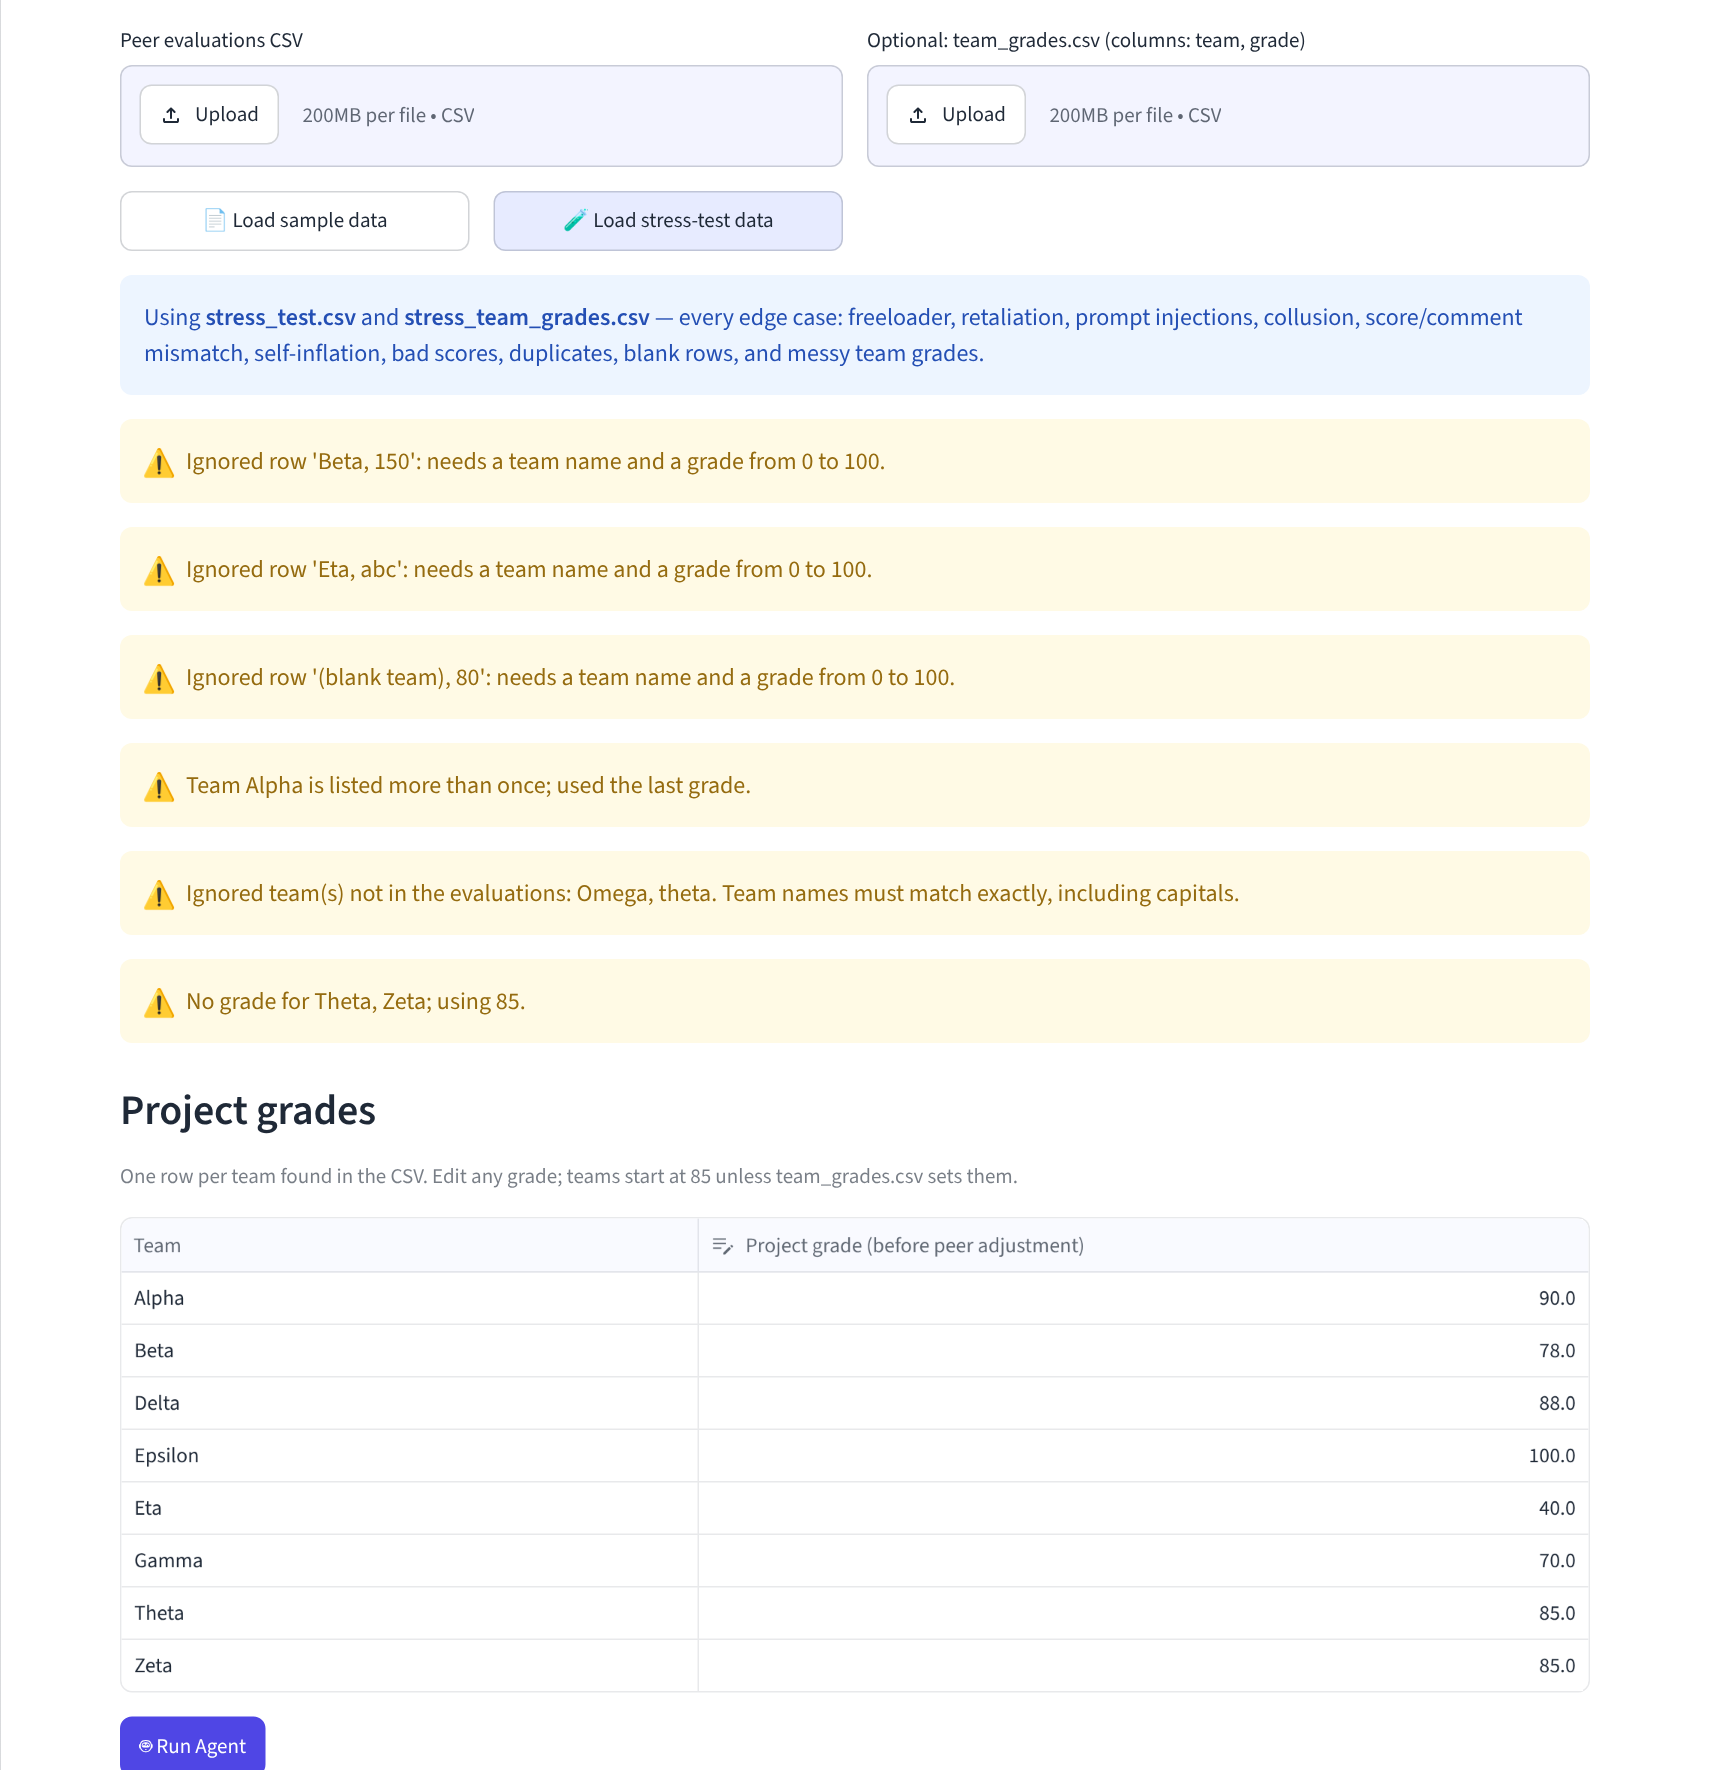
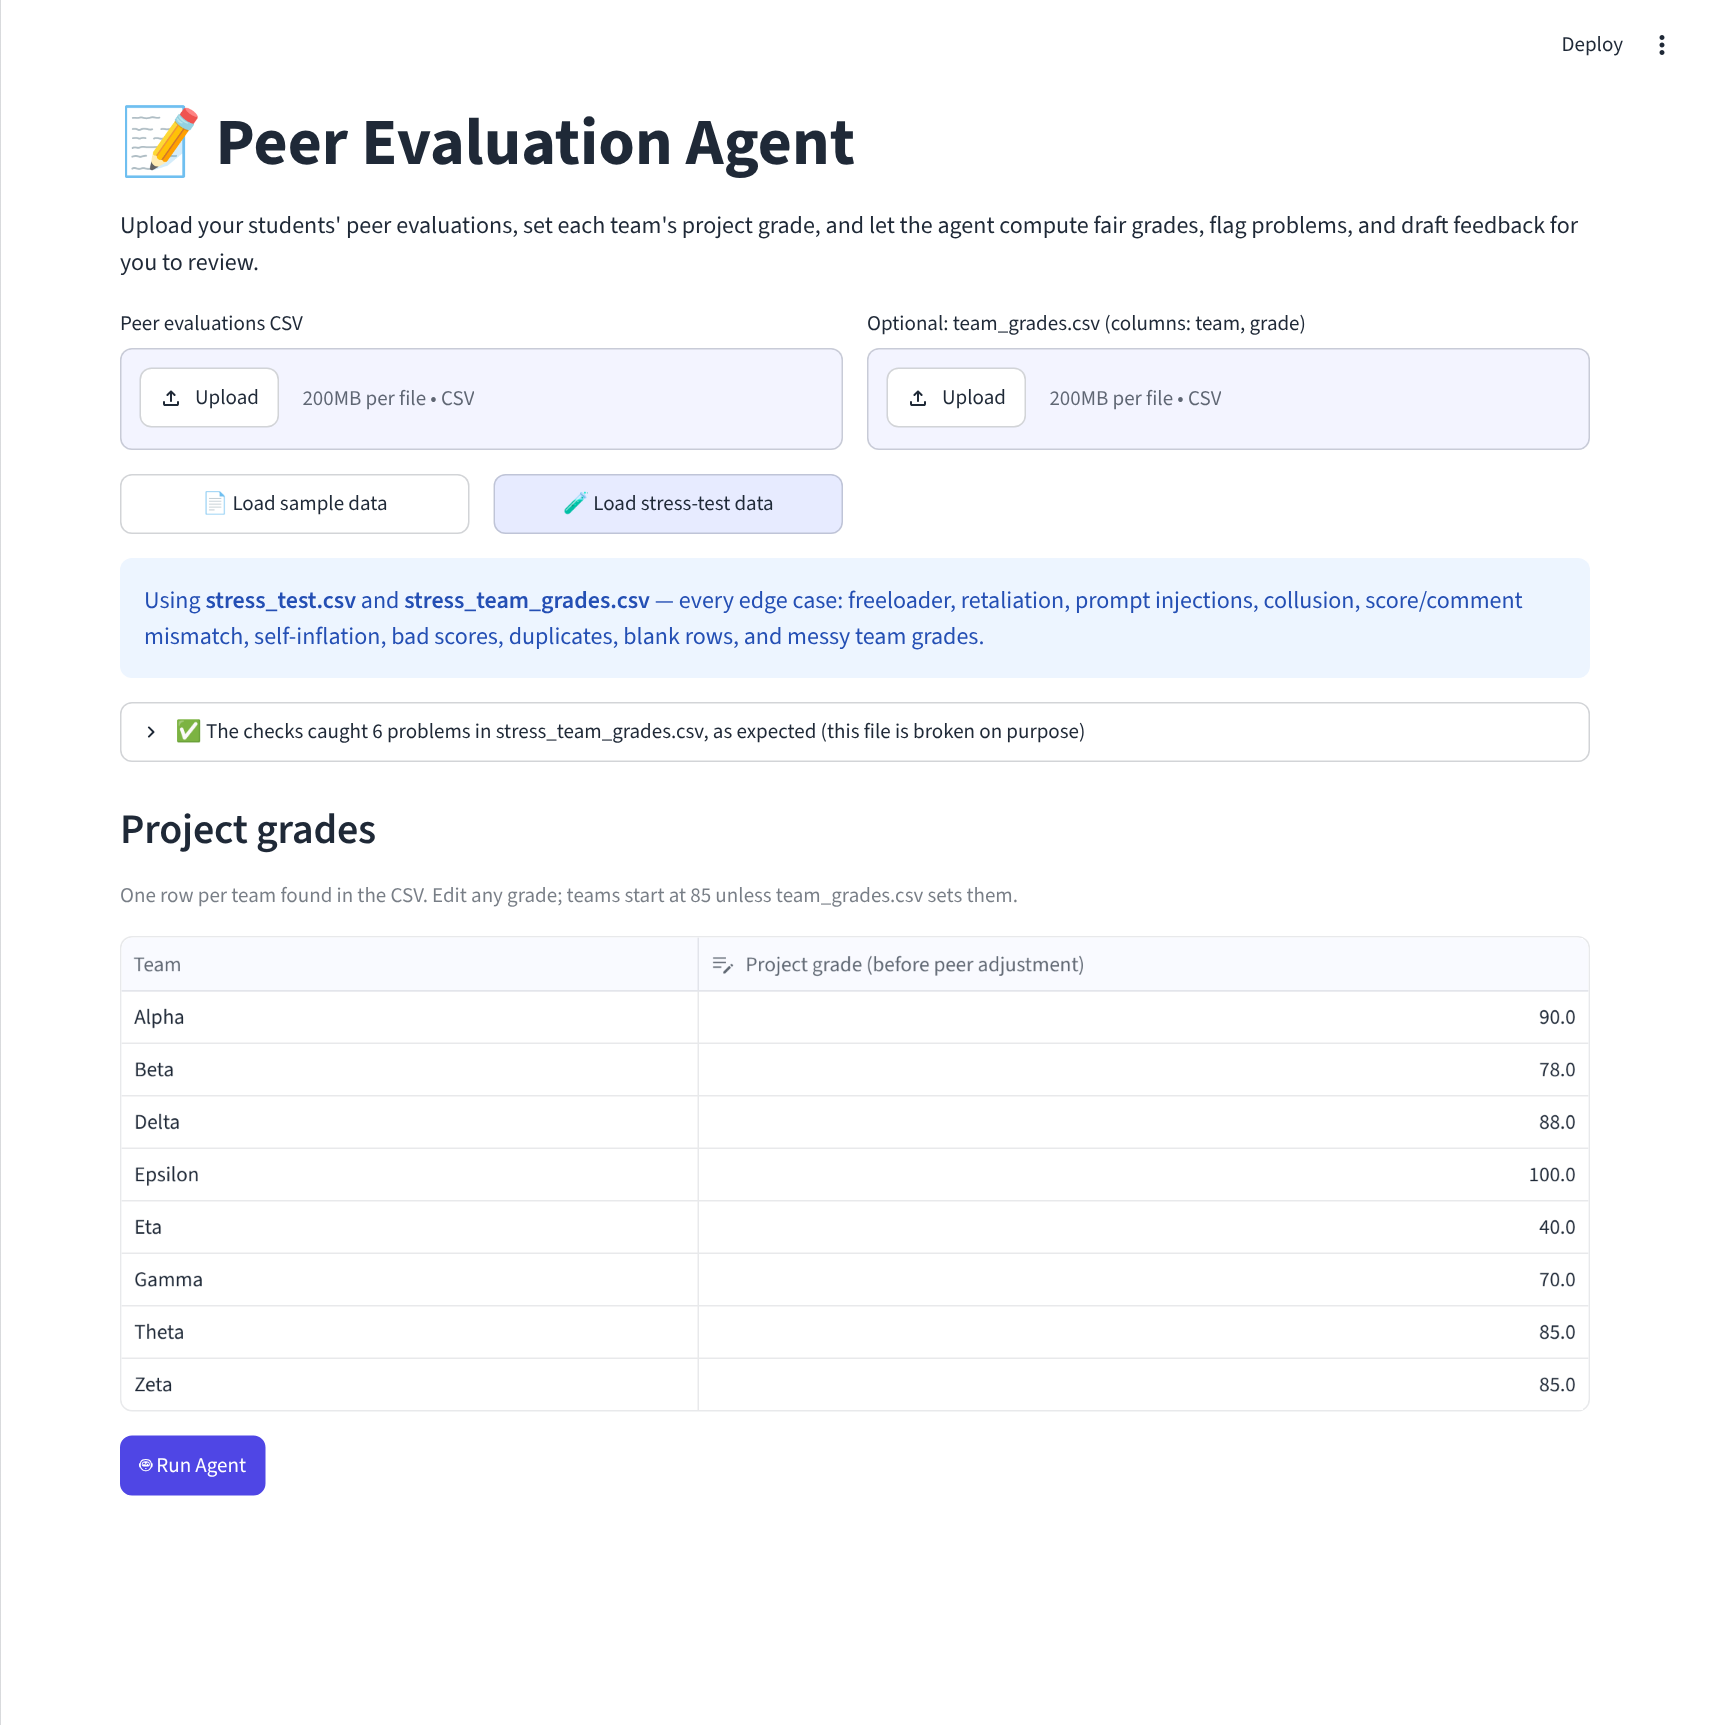
Fold expected stress-test grade warnings into one line
The stress-test team grades file is broken on purpose, so its six
warnings now sit in a collapsed "caught 6 problems, as expected" line
instead of looking like errors. Warnings for files you upload yourself
stay fully visible.

Claude-Session: https://claude.ai/code/session_01DF8S9h9dzztQ8mK5JSBbPJ

diff --git a/app.py b/app.py
@@ -124,8 +124,16 @@ if source is not None:
         teams = sorted(preview_df["team"].unique())
         if grades_source is not None:
             filled, grade_problems = g.load_team_grades(grades_source, teams)
-            for p in grade_problems:
-                st.warning(p, icon="⚠")
+            if grade_problems and grades_source == STRESS_TEAM_GRADES:
+                # The stress-test file is broken on purpose, so these are expected
+                with st.expander(f"✅ The checks caught {len(grade_problems)} problems in "
+                                 f"{STRESS_TEAM_GRADES}, as expected (this file is broken "
+                                 "on purpose)"):
+                    for p in grade_problems:
+                        st.warning(p, icon="⚠")
+            else:
+                for p in grade_problems:
+                    st.warning(p, icon="⚠")
         else:
             filled = {t: g.DEFAULT_PROJECT_GRADE for t in teams}
 

diff --git a/README.md b/README.md
@@ -153,4 +153,4 @@ Screenshots marked *(mock)* are from mock mode; the rest are from a real AI run.
 | Grades file unlocked *(mock)* | ![](docs/screenshots/4b_review_unlocked.png) |
 | Feedback drafts | ![](docs/screenshots/5_feedback.png) |
 | Cost | ![](docs/screenshots/6_cost.png) |
-| Stress-test data and team grade warnings *(mock)* | ![](docs/screenshots/7_stress_button.png) |
+| Stress-test data loaded *(mock)* | ![](docs/screenshots/7_stress_button.png) |
